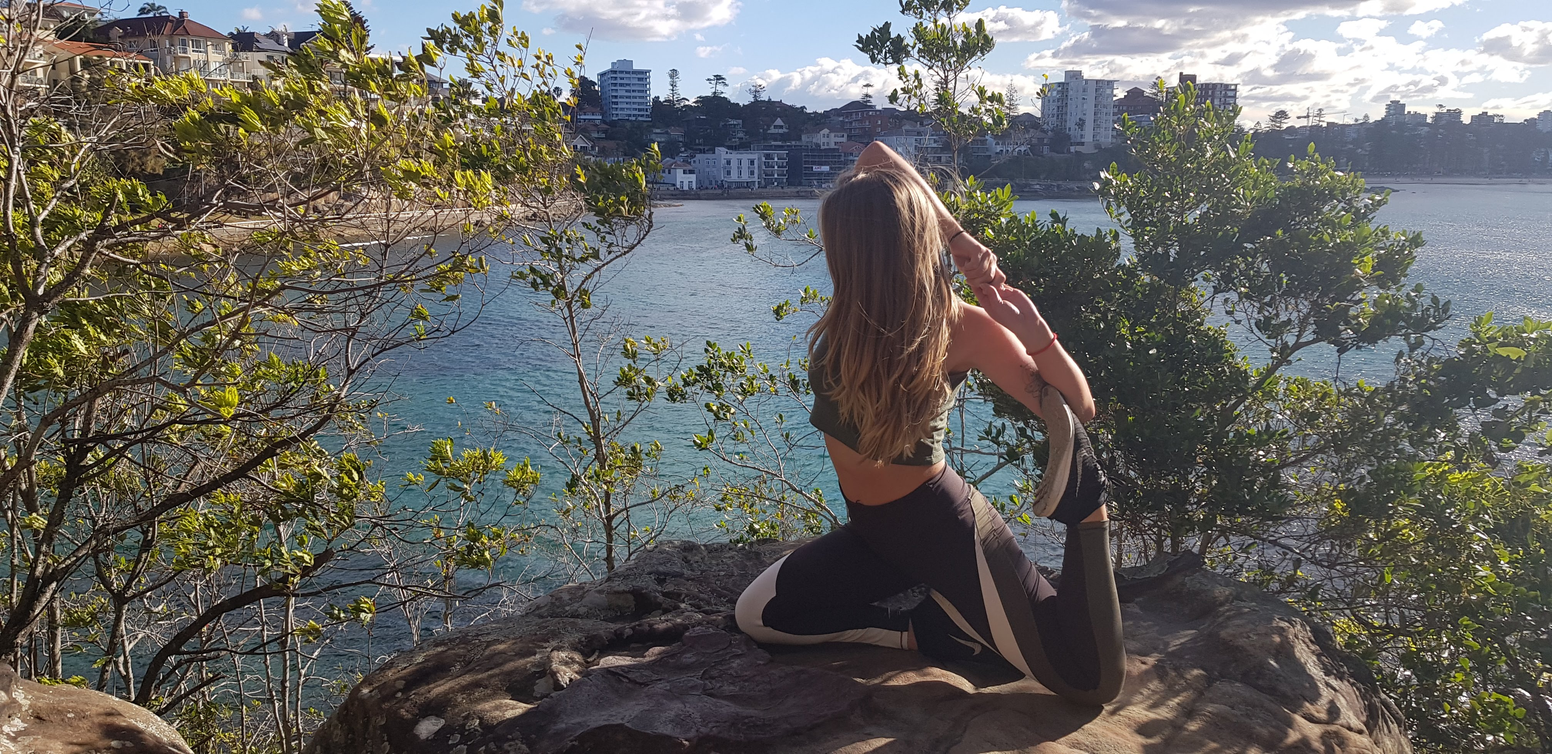
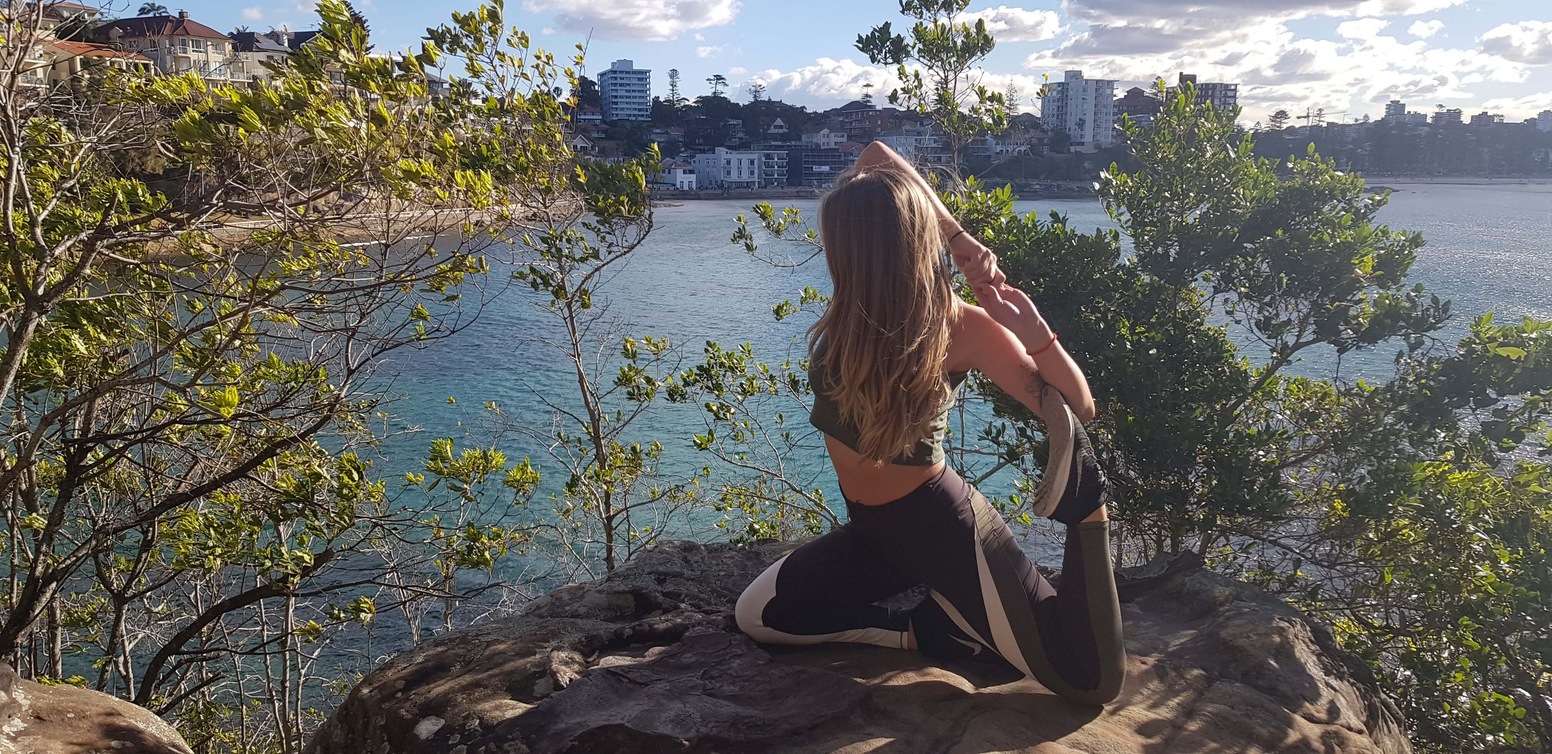
Swap out images with compressed ones

diff --git a/README.md b/README.md
@@ -244,6 +244,8 @@ The footer in the wireframes is a little different from execution but the concep
   12. [Free Formatter](https://www.freeformatter.com/html-formatter.html) Was used in place of extensions due to an error on GitPod caused by a recent update.
   13. [W3C](https://validator.w3.org/) used to validate HTML code.
   14. [W3c Jigsaw](https://jigsaw.w3.org/css-validator/) used to validate CSS code.
+  15. [Chrome Developer Tools](https://developers.google.com/web/tools/chrome-devtools)
+  16. [TinyJPG](https://tinyjpg.com/)For resizing images to decrease loading time.
 
 ## Testing
 
@@ -313,6 +315,8 @@ hero image. The carousel was placed inside a container "div" to combat this.
 to include the website name to show the correct location in the public site.
 - Footer display: the font in the footer wasn't as strong and easily read as I had hoped and this was combatted by adding a
 text shadow.
+- Chrome Dev Tools was used for their Light House function, image size was flagged for slowing down performance. Images that were flagged were deleted, resized
+using TinyJPG and re-uploaded.
 
 #### Testing Limitations
 Testing was limited to the three browsers mentioned above, although I had wished to have the site function on Safari
